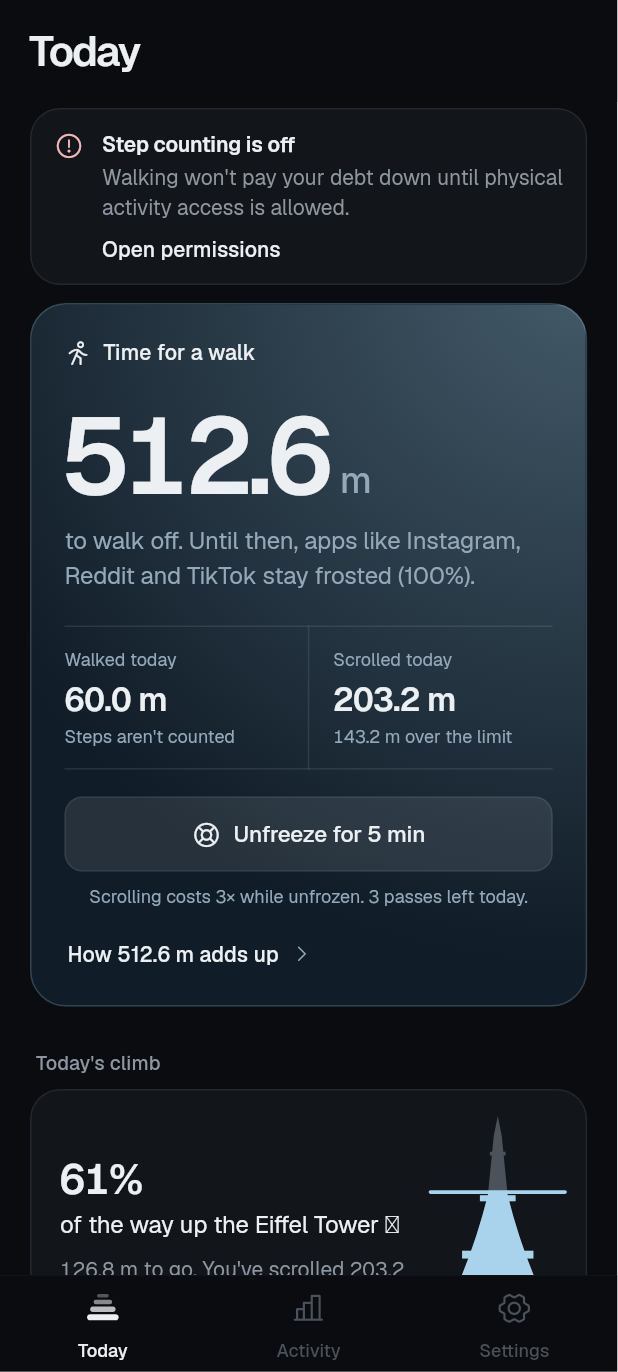
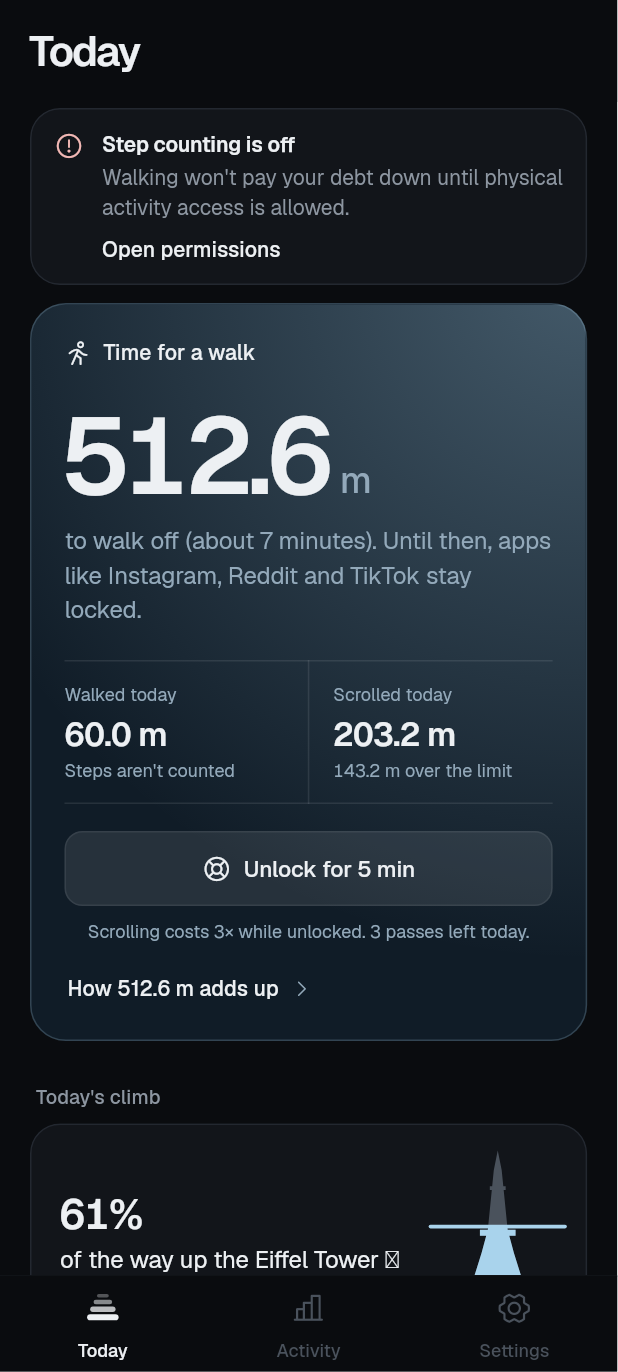
Daily limit wording, stronger blur, walk nudges, tappable pass timer
- "Frosting over" / "frozen" become "Daily limit hit" / "locked" across
  the overlay card, Today, Settings, onboarding and the service summary.
- The lock card says how long the walk takes ("about 3 minutes") and adds
  a line of encouragement that changes daily.
- Any debt now blurs the app at least half strength, growing to full;
  without window blur (battery saver, developer option off) a
  near-opaque wash hides it instead of a faint tint.
- The pass countdown pill takes taps and opens Scroll Debt, where the pass
  can be ended early.

Claude-Session: https://claude.ai/code/session_0121XAmbkjL2kECfkfqcmLgm

diff --git a/android/app/src/main/kotlin/com/lan/scrolldebt/ScrollDebtShim.kt b/android/app/src/main/kotlin/com/lan/scrolldebt/ScrollDebtShim.kt
@@ -464,7 +464,7 @@ class FrostOverlay(private val service: AccessibilityService) {
     private var cardBody: TextView? = null
     private var passButton: TextView? = null
     private var overridesLeft = 0
-    private var titleText = "This app is frozen"
+    private var titleText = "Daily limit hit"
     private var bodyText = ""
     private val cardParams = WindowManager.LayoutParams(
         WindowManager.LayoutParams.WRAP_CONTENT,
@@ -495,7 +495,9 @@ class FrostOverlay(private val service: AccessibilityService) {
     }
     private val hideBanner = Runnable { removeBanner() }
 
-    // Countdown pill at the top while an emergency pass has unfrozen the app.
+    // Countdown pill at the top while an emergency pass has unlocked the app.
+    // Tapping it opens Scroll Debt (where the pass can be ended early); only
+    // the pill itself takes touches.
     private var pass: TextView? = null
     /** End of the pass on the monotonic clock, so a clock change can't skew it. */
     private var passEndElapsed = 0L
@@ -503,8 +505,8 @@ class FrostOverlay(private val service: AccessibilityService) {
         WindowManager.LayoutParams.WRAP_CONTENT,
         WindowManager.LayoutParams.WRAP_CONTENT,
         WindowManager.LayoutParams.TYPE_ACCESSIBILITY_OVERLAY,
-        WindowManager.LayoutParams.FLAG_NOT_TOUCHABLE or
-            WindowManager.LayoutParams.FLAG_NOT_FOCUSABLE or
+        WindowManager.LayoutParams.FLAG_NOT_FOCUSABLE or
+            WindowManager.LayoutParams.FLAG_NOT_TOUCH_MODAL or
             WindowManager.LayoutParams.FLAG_LAYOUT_IN_SCREEN,
         PixelFormat.TRANSLUCENT
     ).apply {
@@ -573,6 +575,10 @@ class FrostOverlay(private val service: AccessibilityService) {
                 }
                 elevation = dp(6).toFloat()
                 fontFeatureSettings = "tnum"
+                minHeight = dp(36)
+                gravity = Gravity.CENTER
+                isClickable = true
+                setOnClickListener { openApp() }
             }
             pass = tv
             try {
@@ -585,6 +591,17 @@ class FrostOverlay(private val service: AccessibilityService) {
         }
         handler.removeCallbacks(tickPass)
         tickPass.run()
+    }
+
+    private fun openApp() {
+        try {
+            service.startActivity(
+                Intent(service, MainActivity::class.java)
+                    .addFlags(Intent.FLAG_ACTIVITY_NEW_TASK or Intent.FLAG_ACTIVITY_REORDER_TO_FRONT)
+            )
+        } catch (e: Exception) {
+            Log.w(TAG, "open app from pass failed: $e")
+        }
     }
 
     private fun removePass() {
@@ -781,23 +798,29 @@ class FrostOverlay(private val service: AccessibilityService) {
     private fun apply(v: Float) {
         level = v
         val r = root ?: return
+        // How hidden the app is. Any debt at all should already blur it
+        // properly (half strength), growing to full as the debt does; the
+        // first 5 % of the level only fades that in.
+        val s = if (v <= 0f) 0f else minOf(1f, 0.5f + 0.5f * v) * minOf(1f, v / 0.05f)
         val tintAlpha: Float
         if (blurEnabled) {
-            val radius = (v * maxBlurPx).toInt()
+            val radius = (s * maxBlurPx).toInt()
             params.flags = params.flags or WindowManager.LayoutParams.FLAG_BLUR_BEHIND
             if (radius != lastRadius) {
                 params.blurBehindRadius = radius
                 lastRadius = radius
                 try { wm.updateViewLayout(r, params) } catch (_: Exception) {}
             }
-            tintAlpha = 0.30f * v
+            tintAlpha = 0.35f * s
         } else {
             if (params.flags and WindowManager.LayoutParams.FLAG_BLUR_BEHIND != 0) {
                 params.flags = params.flags and WindowManager.LayoutParams.FLAG_BLUR_BEHIND.inv()
                 params.blurBehindRadius = 0
                 try { wm.updateViewLayout(r, params) } catch (_: Exception) {}
             }
-            tintAlpha = 0.86f * v
+            // No blur on this phone (battery saver, or off in developer
+            // options): a near-opaque wash hides the app instead.
+            tintAlpha = 0.94f * s
         }
         r.setBackgroundColor(Color.argb((tintAlpha * 255).toInt(), 226, 240, 248))
     }

diff --git a/lib/ui/settings_screen.dart b/lib/ui/settings_screen.dart
@@ -45,7 +45,7 @@ class SettingsScreen extends ConsumerWidget {
                 : preset == null
                     ? 'You\'re using custom rules. Pick a level to replace them.'
                     : '${formatRound(cfg.allowanceM)} of free scrolling a day. After that, walk '
-                        '${_x(cfg.ratio)} m for every metre. Apps freeze completely at '
+                        '${_x(cfg.ratio)} m for every metre. Apps lock completely at '
                         '${formatRound(cfg.frostMaxDebtM)} owed.',
             style: t.bodyMedium?.copyWith(color: context.colors.muted),
           ),
@@ -61,13 +61,13 @@ class SettingsScreen extends ConsumerWidget {
           _NavTile(
             icon: Ph.lifebuoy,
             title: 'Emergency passes',
-            subtitle: '${cfg.overridesPerDay} a day, scrolling costs ${formatTimes(cfg.overridePenalty)} while unfrozen',
+            subtitle: '${cfg.overridesPerDay} a day, scrolling costs ${formatTimes(cfg.overridePenalty)} while unlocked',
             page: const _PassesPage(),
           ),
           const _NavTile(
             icon: Ph.sliders,
             title: 'Custom rules',
-            subtitle: 'Free scrolling, walking, frost, overnight growth',
+            subtitle: 'Free scrolling, walking, locking, overnight growth',
             page: _CustomRulesPage(),
           ),
         ]),
@@ -185,7 +185,7 @@ class _AppsThatCountPage extends ConsumerWidget {
   Widget build(BuildContext context, WidgetRef ref) {
     final c = ref.watch(controllerProvider);
     return _SubPage(title: 'Apps that count', children: [
-      const _Help('Scrolling in these apps counts toward debt, and they freeze over when you owe. '
+      const _Help('Scrolling in these apps counts toward debt, and they blur and lock when you owe. '
           'Everything else, like banking, calls and maps, is never touched.'),
       TileGroup(children: [
         for (final cat in AppCategory.values)
@@ -217,7 +217,7 @@ class _PassesPage extends ConsumerWidget {
     final cfg = c.config;
     void set(DebtConfig n) => c.updateConfig(n);
     return _SubPage(title: 'Emergency passes', children: [
-      _Help('A pass unfreezes your apps for ${cfg.overrideMinutes} minutes when you really need them. '
+      _Help('A pass unlocks your apps for ${cfg.overrideMinutes} minutes when you really need them. '
           'Scrolling still counts, at a higher cost.'),
       TileGroup(children: [
         _SliderRow(
@@ -230,7 +230,7 @@ class _PassesPage extends ConsumerWidget {
           onChanged: (v) => set(cfg.copyWith(overridesPerDay: v.round())),
         ),
         _SliderRow(
-          label: 'Cost while unfrozen',
+          label: 'Cost while unlocked',
           value: cfg.overridePenalty,
           min: 1,
           max: 5,
@@ -275,7 +275,7 @@ class _CustomRulesPage extends ConsumerWidget {
           onChanged: (v) => set(cfg.copyWith(ratio: v)),
         ),
         _SliderRow(
-          label: 'Apps freeze completely at',
+          label: 'Apps lock completely at',
           value: cfg.frostMaxDebtM,
           min: 10,
           max: 500,
@@ -445,8 +445,8 @@ class _DeveloperToolsState extends State<DeveloperTools> {
     return Column(crossAxisAlignment: CrossAxisAlignment.stretch, children: [
       SwitchListTile(
         title: const Text('Demo mode'),
-        subtitle: Text('${demo.allowanceM.toStringAsFixed(0)} m free, 1 m walked per metre, apps freeze at '
-            '${demo.frostMaxDebtM.toStringAsFixed(0)} m. Scroll, freeze, walk and clear fit in two minutes.'),
+        subtitle: Text('${demo.allowanceM.toStringAsFixed(0)} m free, 1 m walked per metre, apps lock at '
+            '${demo.frostMaxDebtM.toStringAsFixed(0)} m. Scroll, lock, walk and unlock fit in two minutes.'),
         value: c.config.demoMode,
         onChanged: (v) => c.updateConfig(c.config.copyWith(demoMode: v)),
       ),

diff --git a/lib/ui/home_screen.dart b/lib/ui/home_screen.dart
@@ -142,7 +142,7 @@ class _TodayTab extends StatelessWidget {
           else if (!c.status.serviceConnected)
             const _Notice(
               title: 'Scroll measuring has stopped',
-              body: 'It\'s switched on but Android stopped it, so nothing frosts. Tap to see why and restart it.',
+              body: 'It\'s switched on but Android stopped it, so no app gets locked. Tap to see why and restart it.',
             ),
           if (c.walkError != null)
             const _Notice(
@@ -282,13 +282,12 @@ class _TodayCardState extends State<_TodayCard> {
     final done = verdict == _Verdict.limit;
     final strong = owed ? col.onHero : (done ? col.danger : col.accent);
     final penalty = formatTimes(c.config.overridePenalty);
-    final frostPct = (c.frostLevel * 100).round();
     final apps = c.frostedAppsToday;
     final which = apps.isEmpty ? 'your restricted apps' : 'apps like ${_appList(c, apps)}';
 
     final (IconData icon, String status) = switch (verdict) {
       _Verdict.walk => (Ph.walk, 'Time for a walk'),
-      _Verdict.unfrozen => (Ph.lifebuoy, 'Unfrozen for ${_countdown(c)}'),
+      _Verdict.unfrozen => (Ph.lifebuoy, 'Unlocked for ${_countdown(c)}'),
       _Verdict.limit => (Ph.lockSimple, 'Free scrolling used up'),
       _Verdict.low => (Ph.warningCircle, 'Almost at your limit'),
       _Verdict.free => (Ph.checkCircle, 'You\'re good to scroll'),
@@ -296,8 +295,8 @@ class _TodayCardState extends State<_TodayCard> {
     final value = owed ? debt : left;
     final sentence = switch (verdict) {
       _Verdict.walk => c.status.serviceConnected
-          ? 'to walk off. Until then, $which stay frosted ($frostPct%).'
-          : 'to walk off. Frost is paused while scroll measuring is off.',
+          ? 'to walk off (${walkMinutes(debt)}). Until then, $which stay locked.'
+          : 'to walk off. Locking is paused while scroll measuring is off.',
       _Verdict.unfrozen => owed
           ? 'still to walk off. Scrolling costs $penalty until the pass ends.'
           : 'of free scrolling left. Past that, scrolling costs $penalty until the pass ends.',
@@ -548,12 +547,12 @@ class _PassButton extends StatelessWidget {
         ),
         onPressed: left > 0 ? c.startOverride : null,
         icon: const Icon(Ph.lifebuoy, size: 20),
-        label: Text('Unfreeze for ${c.config.overrideMinutes} min'),
+        label: Text('Unlock for ${c.config.overrideMinutes} min'),
       ),
       const SizedBox(height: 8),
       Text(
         left > 0
-            ? 'Scrolling costs $penalty while unfrozen. $left ${left == 1 ? 'pass' : 'passes'} left today.'
+            ? 'Scrolling costs $penalty while unlocked. $left ${left == 1 ? 'pass' : 'passes'} left today.'
             : 'No passes left today.',
         textAlign: TextAlign.center,
         style: t.bodySmall?.merge(numeric).copyWith(color: muted),

diff --git a/lib/services/controller.dart b/lib/services/controller.dart
@@ -667,7 +667,8 @@ class ScrollDebtController extends ChangeNotifier {
     if (!force && !endpoint && pass == _lastPassSent && (target - _lastFrostSent).abs() < 0.01) return;
     _lastFrostSent = target;
     _lastPassSent = pass;
-    final (title, body) = frostCard(_knownLabel(foreground), debtM, full: target >= 0.999);
+    final (title, body) = frostCard(_knownLabel(foreground), debtM,
+        full: target >= 0.999, seed: DateTime.now().difference(DateTime(2000)).inDays);
     _log('frost -> ${target.toStringAsFixed(3)} fg=$foreground');
     unawaited(_safe(() => _native.setFrost(target,
         title: title,
@@ -934,14 +935,36 @@ class ScrollDebtController extends ChangeNotifier {
   }
 }
 
-/// The card over a frosted app: what happened and what to do.
-(String, String) frostCard(String? app, double debtM, {required bool full}) {
+/// Lines under the walking ask on the lock card, one a day ([frostCard]'s
+/// seed), so the card doesn't change text while it's up.
+const walkNudges = [
+  'A short walk beats another hour of feed.',
+  'Your legs have been waiting all day.',
+  'Every step clears the blur a little.',
+  'The feed will still be here. The sun might not.',
+  'Fresh air first, then back to it. Deal?',
+  'Your thumb deserves a break. Your legs don\'t.',
+  'Put on some music and go. It\'s over before the third song.',
+];
+
+/// Minutes to walk [metres] at an easy 80 m a minute: "about 3 minutes".
+String walkMinutes(double metres) {
+  final min = (metres / 80).ceil();
+  return min <= 1 ? 'about a minute' : 'about $min minutes';
+}
+
+/// The card over an app once the daily limit is hit: what happened, how
+/// far (and how long) to walk, and a nudge to go.
+(String, String) frostCard(String? app, double debtM, {required bool full, int seed = 0}) {
   final name = app ?? 'This app';
   // No-break space: "512.6 m" never splits across lines.
   final walk = formatMetres(debtM).replaceAll(' ', '\u00A0');
+  final time = walkMinutes(debtM);
+  final nudge = walkNudges[seed % walkNudges.length];
   return full
-      ? ('$name is frozen', 'You\'ve used up your free scrolling. Walk $walk to unfreeze it.')
-      : ('$name is frosting over', 'You\'re past your free scrolling. Walk $walk to clear it. Scrolling more adds to it.');
+      ? ('$name is locked', 'Daily limit hit. Walk $walk ($time) to unlock it.\n\n$nudge')
+      : ('Daily limit hit',
+          '$name stays blurred until you walk $walk ($time). Scrolling more adds to it.\n\n$nudge');
 }
 
 /// The banner when an app that counts is opened with free scrolling used up.

diff --git a/android/app/src/test/kotlin/com/lan/scrolldebt/FrostOverlayTest.kt b/android/app/src/test/kotlin/com/lan/scrolldebt/FrostOverlayTest.kt
@@ -40,7 +40,7 @@ class FrostOverlayTest {
     private fun fullScreen(v: View) = params(v).width == WindowManager.LayoutParams.MATCH_PARENT
 
     @Test fun fullFrostShowsCardOverAppAndLetsTouchesThrough() {
-        overlay.animateTo(1f, "Instagram is frozen", "Walk 512.6 m to unfreeze it.", 0, 3)
+        overlay.animateTo(1f, "Instagram is locked", "Daily limit hit. Walk 512.6 m to unlock it.", 0, 3)
         idle()
         val w = windows()
         assertEquals("frost + card", 2, w.size)
@@ -51,15 +51,15 @@ class FrostOverlayTest {
         assertTrue("card takes touches (its buttons)", touchable(card))
         assertTrue("touches outside the card go to the app",
             params(card).flags and WindowManager.LayoutParams.FLAG_NOT_TOUCH_MODAL != 0)
-        assertEquals(listOf("Scroll Debt", "Instagram is frozen", "Walk 512.6 m to unfreeze it.", "Use pass (3)", "Leave app"), texts(card))
+        assertEquals(listOf("Scroll Debt", "Instagram is locked", "Daily limit hit. Walk 512.6 m to unlock it.", "Use pass (3)", "Leave app"), texts(card))
         assertTrue("card narrower than the screen", params(card).width > 0)
     }
 
     @Test fun lightFrostStillExplainsItself() {
-        overlay.animateTo(0.1f, "Instagram is frosting over", "Walk 20 m to clear it.", 0, 0)
+        overlay.animateTo(0.1f, "Daily limit hit", "Instagram stays blurred until you walk 20 m.", 0, 0)
         idle()
         val card = windows().single { !fullScreen(it) }
-        assertEquals(listOf("Scroll Debt", "Instagram is frosting over", "Walk 20 m to clear it.", "Leave app"), texts(card))
+        assertEquals(listOf("Scroll Debt", "Daily limit hit", "Instagram stays blurred until you walk 20 m.", "Leave app"), texts(card))
     }
 
     @Test fun frostClearsCompletely() {
@@ -86,7 +86,7 @@ class FrostOverlayTest {
         overlay.showPass(start + 5 * 60_000)
         idle()
         val p = windows().single()
-        assertTrue("pill never takes touches", !touchable(p))
+        assertTrue("pill takes touches (opens the app)", touchable(p))
         assertTrue(overlay.passText == "Pass: 5:00 left" || overlay.passText == "Pass: 4:59 left")
         shadowOf(Looper.getMainLooper()).idleFor(Duration.ofSeconds(61))
         assertTrue(overlay.passText!!.startsWith("Pass: 3:5"))

diff --git a/lib/ui/onboarding_screen.dart b/lib/ui/onboarding_screen.dart
@@ -32,7 +32,7 @@ const _steps = [
   _Step(
     _StepId.accessibility,
     'Turn on scroll measuring',
-    'An accessibility service measures how far you scroll and draws the frost. It receives scroll '
+    'An accessibility service measures how far you scroll and blurs apps once your limit is hit. It receives scroll '
         'distances and the name of the open app. It cannot read your screen.',
     'Open accessibility settings',
   ),
@@ -185,7 +185,7 @@ class _OnboardingScreenState extends ConsumerState<OnboardingScreen> with Widget
                 style: t.headlineLarge?.copyWith(fontSize: 34, letterSpacing: -1.4)),
             const SizedBox(height: 14),
             Text(
-              'Scrolling past your daily allowance turns into walking you owe. Social apps frost over until '
+              'Scrolling past your daily allowance turns into walking you owe. Past it, social apps blur and lock until '
               'you walk it off, and every metre counts toward your daily movement goal.',
               style: t.bodyLarge?.copyWith(color: context.colors.muted),
             ),

diff --git a/test/pipeline_test.dart b/test/pipeline_test.dart
@@ -187,12 +187,13 @@ void main() {
     await c.setDeveloperOptions(true);
     c.devAddScroll('com.instagram.android', 4); // 2 free, then 2 * 2x * 1 = 4 m owed
     expect(frostCalls.last, closeTo(4 / 15, 0.01));
-    expect(frostArgs.last['title'], 'Instagram is frosting over');
-    expect(frostArgs.last['body'], contains('Walk 4.0\u00A0m'));
+    expect(frostArgs.last['title'], 'Daily limit hit');
+    expect(frostArgs.last['body'], contains('Instagram stays blurred until you walk 4.0\u00A0m (about a minute)'));
     c.devAddScroll('com.instagram.android', 20);
     expect(frostCalls.last, 1);
-    expect(frostArgs.last['title'], 'Instagram is frozen');
-    expect(frostArgs.last['body'], contains('used up your free scrolling'));
+    expect(frostArgs.last['title'], 'Instagram is locked');
+    expect(frostArgs.last['body'], contains('to unlock it'));
+    expect(walkNudges.any((n) => (frostArgs.last['body'] as String).endsWith(n)), isTrue);
     c.dispose();
   });
 

diff --git a/lib/ui/permissions_screen.dart b/lib/ui/permissions_screen.dart
@@ -118,7 +118,7 @@ class _PermissionsScreenState extends ConsumerState<PermissionsScreen> with Widg
                   ? 'On and running'
                   : st.accessibilityEnabled
                       ? 'On, but not running'
-                      : 'Off. Nothing is measured or frosted.',
+                      : 'Off. Nothing is measured or locked.',
               action: 'Accessibility',
               onTap: c.native.openAccessibilitySettings,
             ),
@@ -258,7 +258,7 @@ class _StoppedCard extends StatelessWidget {
           ]),
           const SizedBox(height: 8),
           Text(
-            'It\'s switched on in Settings, but Android isn\'t running it, so nothing is measured or frosted. $why',
+            'It\'s switched on in Settings, but Android isn\'t running it, so nothing is measured or locked. $why',
             style: t.bodyMedium?.copyWith(color: col.muted),
           ),
           if (showAdbHint && exit?.description != null) ...[
